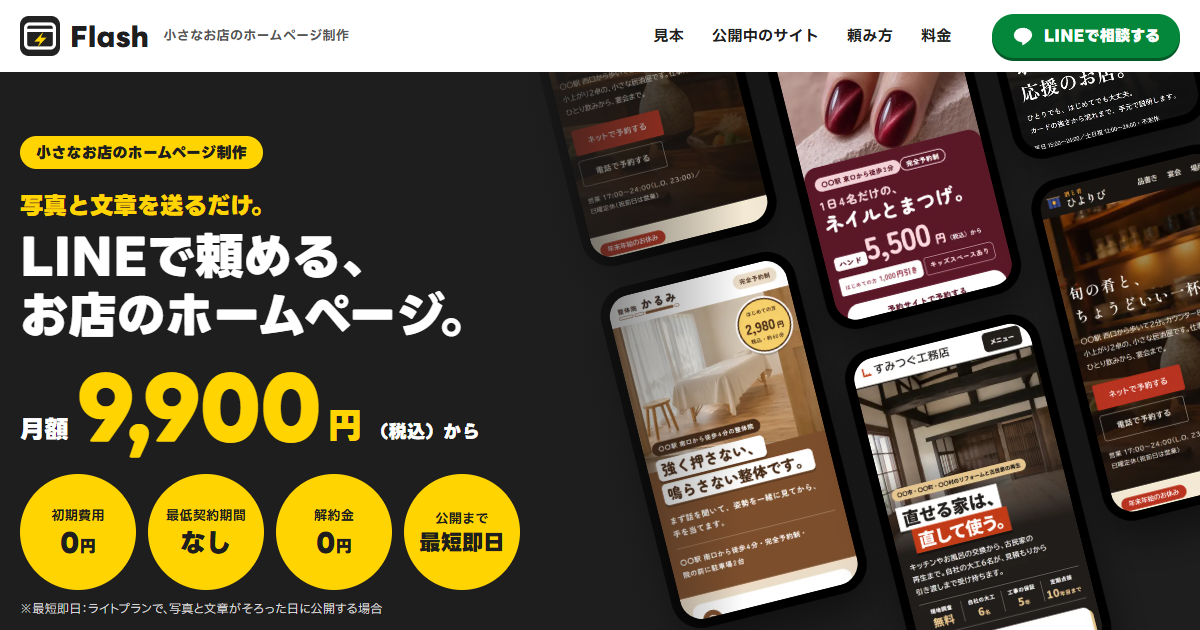
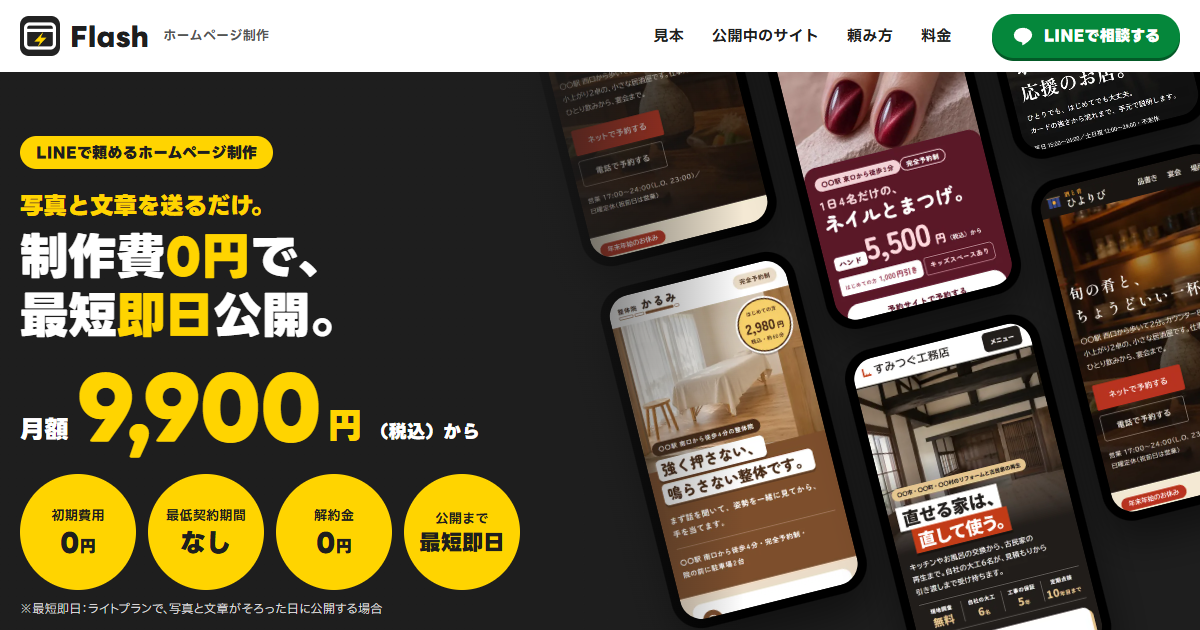
LP: 1画面目の見出しを「制作費0円で、最短即日公開。」に
- 「お店のホームページ」は刺さらない（本人）→ 得から始める。「納品」ではなく「公開」（解約で公開を止める月額制のため）
- 「小さな」をやめ、黄色い札は「LINEで頼めるホームページ制作」に。ページ名・共有用の題と説明文・OGP 画像も合わせた

Changed region(s): [[0.0, 0.3619, 0.4008, 0.5429], [0.0308, 0.2111, 0.2467, 0.2714], [0.1233, 0.0302, 0.3083, 0.0905]]

diff --git a/index.html b/index.html
@@ -4,16 +4,16 @@
 <meta charset="utf-8">
 <meta name="viewport" content="width=device-width, initial-scale=1, viewport-fit=cover">
 <meta name="robots" content="noindex,nofollow"><!-- 本公開時に外す -->
-<title>小さなお店のホームページ制作 Flash｜LINEのやり取りだけで・月額9,900円（税込）から</title>
-<meta name="description" content="写真と文章をLINEで送ってもらえれば、お店のホームページを作って公開します。月額9,900円（税込）から、初期費用なし。業種ごとの見本を見て選べます。">
+<title>制作費0円・最短即日公開のホームページ制作 Flash｜LINEで頼める・月額9,900円（税込）から</title>
+<meta name="description" content="制作費0円・最短即日公開。写真と文章をLINEで送るだけで、ホームページを作って公開します。月額9,900円（税込）から。業種ごとの見本を見て選べます。">
 <link rel="canonical" href="https://flash22hp-del.github.io/">
 <link rel="icon" href="img/brand/favicon.svg" type="image/svg+xml">
 <link rel="icon" href="img/brand/favicon-32.png" sizes="32x32" type="image/png">
 <link rel="apple-touch-icon" href="img/brand/apple-touch-icon.png">
 <meta property="og:type" content="website">
 <meta property="og:url" content="https://flash22hp-del.github.io/">
-<meta property="og:title" content="小さなお店のホームページ制作 Flash｜LINEのやり取りだけで">
-<meta property="og:description" content="写真と文章をLINEで送ってもらえれば、お店のホームページを作って公開します。月額9,900円（税込）から、初期費用なし。">
+<meta property="og:title" content="制作費0円・最短即日公開のホームページ制作 Flash">
+<meta property="og:description" content="制作費0円・最短即日公開。写真と文章をLINEで送るだけで、ホームページを作って公開します。月額9,900円（税込）から。">
 <meta property="og:image" content="https://flash22hp-del.github.io/img/og.png">
 <link rel="preconnect" href="https://fonts.googleapis.com">
 <link rel="preconnect" href="https://fonts.gstatic.com" crossorigin>
@@ -40,7 +40,7 @@
   <a class="hd-logo" href="./">
     <svg width="40" height="40" aria-hidden="true"><use href="#i-logo"/></svg>
     <span class="hd-name">Flash</span>
-    <span class="hd-what">小さなお店のホームページ制作</span>
+    <span class="hd-what">ホームページ制作</span>
   </a>
   <nav class="hd-nav" aria-label="ページ内">
     <a href="#mihon">見本</a>
@@ -67,8 +67,8 @@
   </div>
   <div class="top-in">
     <div class="top-copy">
-      <p class="top-tag" data-budoux><span style="word-break:keep-all;overflow-wrap:anywhere">小さなお店のホームページ制作</span></p>
-      <h1 data-budoux><span style="word-break:keep-all;overflow-wrap:anywhere"><span class="top-sub">写真と文章を送るだけ。</span>LINEで頼める、<br>お店のホームページ。</span></h1>
+      <p class="top-tag" data-budoux><span style="word-break:keep-all;overflow-wrap:anywhere">LINEで頼めるホームページ制作</span></p>
+      <h1 data-budoux><span style="word-break:keep-all;overflow-wrap:anywhere"><span class="top-sub">写真と文章を送るだけ。</span>制作費<span class="mk">0円</span>で、<br>最短<span class="mk">即日</span>公開。</span></h1>
       <p class="top-price" data-budoux><span style="word-break:keep-all;overflow-wrap:anywhere"><span class="m">月額</span><span class="n">9,900</span><span class="y">円</span><span class="t">（税込）から</span></span></p>
       <div class="badges">
         <div class="badge"><b>初期費用</b><strong class="bd">0<small>円</small></strong></div>

diff --git a/style.css b/style.css
@@ -292,7 +292,7 @@ small { font-size: inherit; }
 
 /* ---- 料金（黒の面） ---- */
 .fee { background: var(--ink); color: var(--white); padding: var(--section-y) var(--pad); }
-.fee .mk, .ask .mk { background: none; color: var(--yellow); }
+.fee .mk, .ask .mk, .top .mk { background: none; color: var(--yellow); }
 .badges--3 { grid-template-columns: repeat(3, minmax(0, 116px)); justify-content: center; margin-block: calc(clamp(28px, 4.5vw, 52px) * -0.35) clamp(32px, 4.5vw, 52px); }
 .plans { display: grid; grid-template-columns: repeat(3, minmax(0, 1fr)); gap: 22px; align-items: stretch; }
 .plan { background: var(--white); color: var(--ink); border-radius: 22px; overflow: hidden; display: grid; grid-template-rows: auto 1fr; box-shadow: 0 6px 0 #000; }
